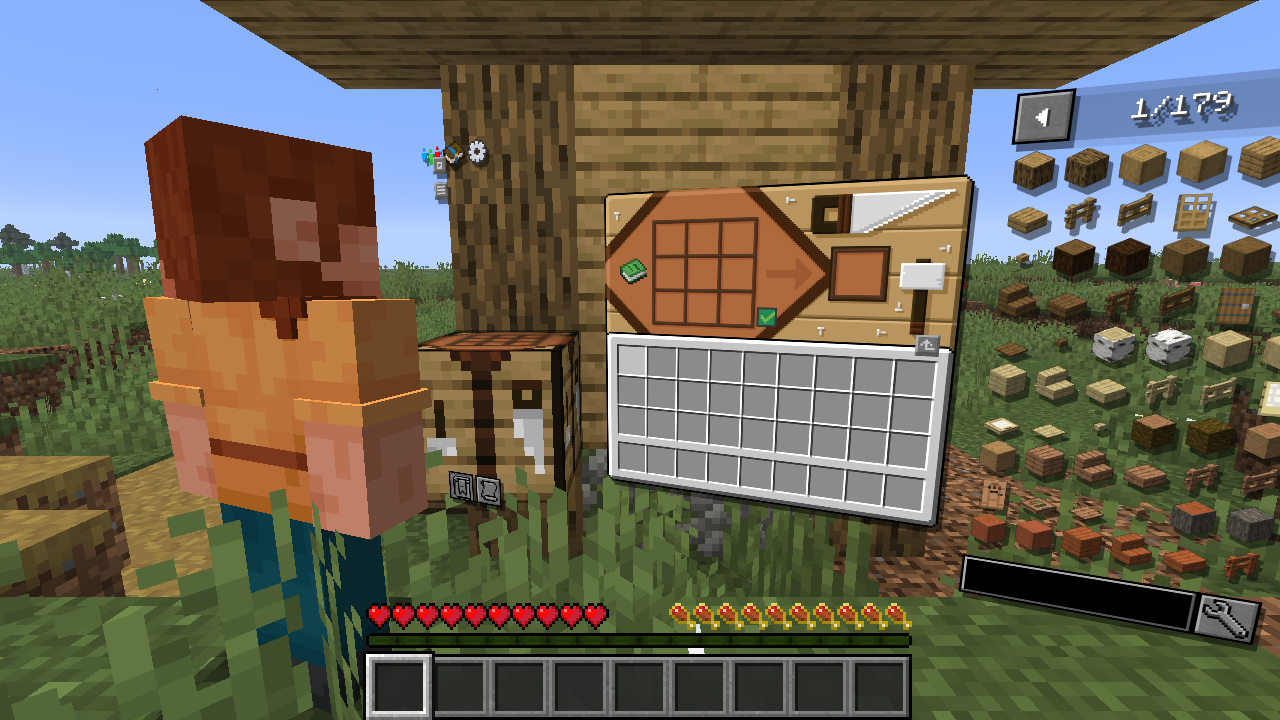
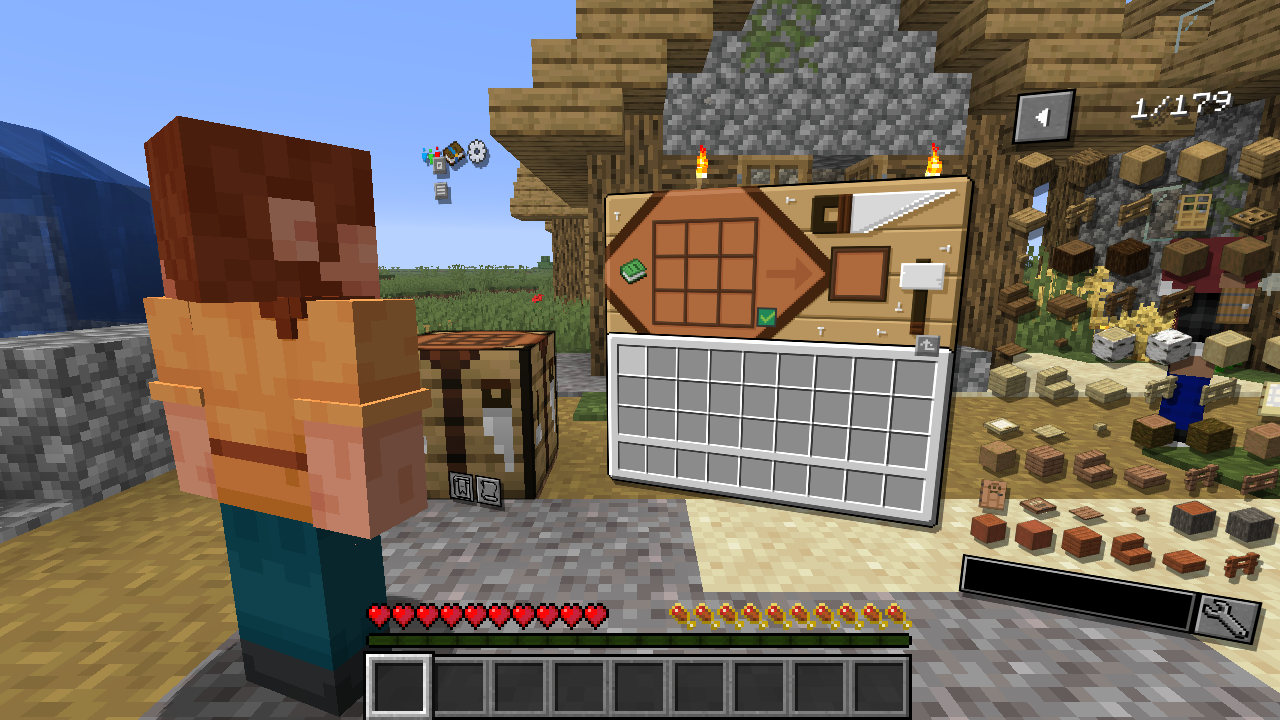
Oven screen in the pack's walnut/cream palette; robust weather GameTests; 1.0.0 release-pass evidence
- OvenScreen: walnut-framed cream enamel appliance area, vanilla inventory below (verified in showcase).
- Blizzard GameTest: check build-up after the 0.2-intensity threshold, hay-bale control row (dry farmland
  reverts to dirt), vanilla snow accumulation off during the test; fridge test headroom. 10/10 in 10 runs.
- weather-design: build-up tag vs vanilla single-layer snowfall stated precisely.
- Full pipeline on 1.0.0: server boot + client normal/blizzard/showcase/title PASS.

Claude-Session: https://claude.ai/code/session_017tD9w4wZGWMRQRRh4vbG5X

diff --git a/custom-mods/homestead-core/src/client/java/dev/jules/homestead/client/screen/OvenScreen.java b/custom-mods/homestead-core/src/client/java/dev/jules/homestead/client/screen/OvenScreen.java
@@ -7,12 +7,30 @@ import net.minecraft.network.chat.Component;
 import net.minecraft.world.entity.player.Inventory;
 import net.minecraft.world.inventory.Slot;
 
-/** Oven GUI drawn with plain fills (no texture asset needed): slots, per-slot progress bars and an energy gauge. */
+/**
+ * Oven GUI drawn with plain fills (no texture asset needed). The appliance area uses the pack's walnut + cream palette
+ * (matching the quest book, Jade theme and Recolourful Containers); the player inventory below keeps the vanilla look.
+ */
 public class OvenScreen extends AbstractContainerScreen<OvenMenu> {
 	private static final int PANEL = 0xFFC6C6C6;
+	private static final int BEVEL_LIGHT = 0xFFFFFFFF;
+	private static final int BEVEL_DARK = 0xFF555555;
 	private static final int DARK = 0xFF373737;
 	private static final int LIGHT = 0xFFFFFFFF;
 	private static final int SLOT = 0xFF8B8B8B;
+	// appliance area
+	private static final int WALNUT = 0xFF5B3A1E;
+	private static final int WALNUT_LIGHT = 0xFF8A5E36;
+	private static final int ENAMEL = 0xFFF1E7D0;
+	private static final int ENAMEL_SLOT = 0xFFC9B99A;
+	private static final int ENAMEL_SHADOW = 0xFF6E5B43;
+	private static final int ENAMEL_LIGHT = 0xFFFFF8E8;
+	private static final int TRACK = 0xFF4A3524;
+	private static final int HEAT = 0xFFE08A2E;
+	private static final int HEAT_GLOW = 0xFFF2B35E;
+	private static final int CHARGE = 0xFFD9C230;
+	private static final int AREA_TOP = 14;
+	private static final int AREA_BOTTOM = 72;
 
 	public OvenScreen(OvenMenu menu, Inventory inventory, Component title) {
 		super(menu, inventory, title, 176, 166);
@@ -23,38 +41,57 @@ public class OvenScreen extends AbstractContainerScreen<OvenMenu> {
 		super.extractBackground(g, mouseX, mouseY, a);
 		int x = leftPos;
 		int y = topPos;
+		// vanilla-style panel with a bevel
 		g.fill(x, y, x + imageWidth, y + imageHeight, PANEL);
 		g.outline(x, y, imageWidth, imageHeight, DARK);
+		g.fill(x + 1, y + 1, x + imageWidth - 2, y + 2, BEVEL_LIGHT);
+		g.fill(x + 1, y + 1, x + 2, y + imageHeight - 2, BEVEL_LIGHT);
+		g.fill(x + 2, y + imageHeight - 2, x + imageWidth - 1, y + imageHeight - 1, BEVEL_DARK);
+		g.fill(x + imageWidth - 2, y + 2, x + imageWidth - 1, y + imageHeight - 1, BEVEL_DARK);
+		// appliance area: walnut frame around cream enamel
+		int ax0 = x + 7;
+		int ax1 = x + imageWidth - 7;
+		int ay0 = y + AREA_TOP;
+		int ay1 = y + AREA_BOTTOM;
+		g.fill(ax0, ay0, ax1, ay1, WALNUT);
+		g.fill(ax0 + 1, ay0 + 1, ax1 - 1, ay0 + 2, WALNUT_LIGHT);
+		g.fill(ax0 + 2, ay0 + 2, ax1 - 2, ay1 - 2, ENAMEL);
 		for (Slot s : menu.slots) {
 			int sx = x + s.x - 1;
 			int sy = y + s.y - 1;
-			g.fill(sx, sy, sx + 18, sy + 18, SLOT);
-			g.fill(sx, sy, sx + 17, sy + 1, DARK);
-			g.fill(sx, sy, sx + 1, sy + 17, DARK);
-			g.fill(sx + 1, sy + 17, sx + 18, sy + 18, LIGHT);
-			g.fill(sx + 17, sy + 1, sx + 18, sy + 18, LIGHT);
+			boolean appliance = s.y < AREA_BOTTOM;
+			g.fill(sx, sy, sx + 18, sy + 18, appliance ? ENAMEL_SLOT : SLOT);
+			g.fill(sx, sy, sx + 17, sy + 1, appliance ? ENAMEL_SHADOW : DARK);
+			g.fill(sx, sy, sx + 1, sy + 17, appliance ? ENAMEL_SHADOW : DARK);
+			g.fill(sx + 1, sy + 17, sx + 18, sy + 18, appliance ? ENAMEL_LIGHT : LIGHT);
+			g.fill(sx + 17, sy + 1, sx + 18, sy + 18, appliance ? ENAMEL_LIGHT : LIGHT);
 		}
+		// per-slot cooking progress: a glowing element under each input
 		for (int i = 0; i < 4; i++) {
 			int bx = x + 53 + i * 18;
 			int by = y + 40;
-			g.fill(bx, by, bx + 16, by + 6, DARK);
+			g.fill(bx, by, bx + 16, by + 6, TRACK);
 			int w = Math.round(16 * menu.progress(i));
-			g.fill(bx, by, bx + w, by + 6, 0xFFE08A2E);
+			if (w > 0) {
+				g.fill(bx, by, bx + w, by + 6, HEAT);
+				g.fill(bx, by, bx + w, by + 1, HEAT_GLOW);
+			}
 		}
-		int ex = x + 160;
+		// energy gauge
+		int ex = x + 158;
 		int ey = y + 18;
-		int eh = 52;
-		g.fill(ex, ey, ex + 8, ey + eh, DARK);
-		int filled = (int) Math.round(eh * (menu.energy() / (double) menu.capacity()));
-		g.fill(ex + 1, ey + eh - filled, ex + 7, ey + eh, 0xFFD9C230);
+		int eh = 50;
+		g.fill(ex, ey, ex + 8, ey + eh, TRACK);
+		int filled = (int) Math.round((eh - 2) * (menu.energy() / (double) menu.capacity()));
+		g.fill(ex + 1, ey + eh - 1 - filled, ex + 7, ey + eh - 1, CHARGE);
 	}
 
 	@Override
 	public void extractContents(GuiGraphicsExtractor g, int mouseX, int mouseY, float a) {
 		super.extractContents(g, mouseX, mouseY, a);
-		int ex = leftPos + 160;
+		int ex = leftPos + 158;
 		int ey = topPos + 18;
-		if (mouseX >= ex && mouseX < ex + 8 && mouseY >= ey && mouseY < ey + 52) {
+		if (mouseX >= ex && mouseX < ex + 8 && mouseY >= ey && mouseY < ey + 50) {
 			g.setTooltipForNextFrame(font, Component.translatable("homesteadcore.gui.energy", menu.energy(), menu.capacity()), mouseX, mouseY);
 		}
 	}

diff --git a/custom-mods/homestead-core/src/gametest/java/dev/jules/homestead/test/HomesteadGameTests.java b/custom-mods/homestead-core/src/gametest/java/dev/jules/homestead/test/HomesteadGameTests.java
@@ -37,6 +37,7 @@ import net.minecraft.world.item.ItemStack;
 import net.minecraft.world.item.Items;
 import net.minecraft.world.level.GameType;
 import net.minecraft.world.level.LightLayer;
+import net.minecraft.world.level.gamerules.GameRules;
 import net.minecraft.world.level.biome.Biome;
 import net.minecraft.world.level.block.Blocks;
 import net.minecraft.world.level.block.ChestBlock;
@@ -144,7 +145,7 @@ public class HomesteadGameTests {
 	 * Establishes (with real Spoiled loaded): a vanilla chest's food starts spoiling (control); a powered fridge's
 	 * food does not; an unpowered fridge stays cold for the retention window, then its food starts spoiling.
 	 */
-	@GameTest(maxTicks = 600)
+	@GameTest(maxTicks = 1200) // Spoiled starts spoiling a container on its own schedule; leave headroom
 	public void refrigeratorPreservesOnlyWhilePowered(GameTestHelper h) {
 		HomesteadConfig.get().appliances.refrigeratorColdRetentionTicks = 60;
 		floor(h, 6);
@@ -371,7 +372,7 @@ public class HomesteadGameTests {
 
 	/**
 	 * Establishes (own batch): snow build-up rules (open natural ground gains layers up to the cap; no snow under a
-	 * roof or on no_snow_accumulation blocks such as farmland), live blizzard accumulation around an exposed player,
+	 * roof or on no_snow_accumulation blocks such as farmland and hay), live blizzard accumulation around an exposed player,
 	 * blizzard slowdown = blizzardSlowdown × intensity, the caught_in_blizzard advancement, and safe_and_warm after
 	 * 60 s sheltered during the blizzard.
 	 */
@@ -382,6 +383,11 @@ public class HomesteadGameTests {
 		HomesteadConfig.Weather cfg = HomesteadConfig.get().weather;
 		int oldRadius = cfg.snowAccumulationRadius;
 		int oldAttempts = cfg.snowAccumulationAttemptsPerSecond;
+		// Vanilla snowfall also lays single snow layers (on full blocks such as hay). Switch it off for this test so every
+		// layer observed below comes from homestead-core's build-up.
+		var rules = level.getGameRules();
+		int oldVanillaSnow = rules.get(GameRules.MAX_SNOW_ACCUMULATION_HEIGHT);
+		rules.set(GameRules.MAX_SNOW_ACCUMULATION_HEIGHT, 0, server);
 		floor(h, 7);
 		String oldBiome = fillBiome(h, 7, "minecraft:snowy_plains");
 		h.assertValueEqual(Exposure.precipitationAt(level, h.absolutePos(new BlockPos(3, 1, 3))), Biome.Precipitation.SNOW, "precondition: it snows here");
@@ -403,9 +409,10 @@ public class HomesteadGameTests {
 		h.assertTrue(!WeatherManager.tryAddSnowLayer(level, h.absolutePos(new BlockPos(0, 1, 6)), cap), "no snow under a roof");
 		h.setBlock(open, Blocks.AIR);
 		h.setBlock(0, 3, 6, Blocks.AIR);
-		// Control row of farmland along z = 6 for the live accumulation check.
+		// Control row along z = 6 for the live accumulation check: hay bales (no_snow_accumulation). Not farmland: dry
+		// farmland turns back into dirt on random ticks, and snow then (correctly) settles on the dirt.
 		for (int x = 0; x < 7; x++) {
-			h.setBlock(x, 0, 6, Blocks.FARMLAND);
+			h.setBlock(x, 0, 6, Blocks.HAY_BLOCK);
 		}
 
 		// Live blizzard: keep accumulation inside the 7x7 test area and make it frequent enough to observe.
@@ -414,8 +421,10 @@ public class HomesteadGameTests {
 		ServerPlayer p = survivalPlayer(h, new Vec3(3.5, 1, 3.5));
 		long[] shelteredAt = {0};
 		WeatherManager.startNow(server, Front.Kind.BLIZZARD, 3000, 3);
+		// Snow only builds up above intensity 0.2 (reached ~90 ticks into the 450-tick ramp), in passes every 20 ticks:
+		// by tick 200 several passes have run at ~0.3-0.45 intensity, so the area check below is not timing-sensitive.
 		h.startSequence()
-				.thenIdle(100)
+				.thenIdle(200)
 				.thenExecute(() -> {
 					WeatherManager.PlayerWeather st = WeatherManager.playerState(p.getUUID());
 					h.assertTrue(st.blizzardExposure(), "player in the open counts as blizzard-exposed (" + st + ")");
@@ -431,7 +440,7 @@ public class HomesteadGameTests {
 								snowy++;
 							}
 						}
-						h.assertTrue(!h.getBlockState(new BlockPos(x, 1, 6)).is(Blocks.SNOW), "no snow on the farmland row at x=" + x);
+						h.assertTrue(!h.getBlockState(new BlockPos(x, 1, 6)).is(Blocks.SNOW), "no snow on the hay-bale row at x=" + x);
 					}
 					h.assertTrue(snowy > 0, "snow accumulated on open ground around the player (" + snowy + " columns)");
 					hut(h);
@@ -453,6 +462,7 @@ public class HomesteadGameTests {
 				.thenExecute(() -> {
 					cfg.snowAccumulationRadius = oldRadius;
 					cfg.snowAccumulationAttemptsPerSecond = oldAttempts;
+					rules.set(GameRules.MAX_SNOW_ACCUMULATION_HEIGHT, oldVanillaSnow, server);
 					server.getPlayerList().remove(p);
 					fillBiome(h, 7, oldBiome);
 				})

diff --git a/STATUS.md b/STATUS.md
@@ -1,4 +1,4 @@
-# Status (2026-11-05)
+# Status (2026-11-05, version 1.0.0)
 
 Legend: **R** researched · **I** implemented · **C** compiled · **T** runtime-tested in the cloud · **L** awaiting local verification on Jules' PC.
 "T" names exactly what the test showed; cloud tests use a headless server and a software-rendered client (Mesa llvmpipe under Xvfb, no sound, no player input).
@@ -30,7 +30,8 @@ Legend: **R** researched · **I** implemented · **C** compiled · **T** runtime
 | Refrigerator preserves only while powered (real Spoiled) | T | GameTest `refrigeratorPreservesOnlyWhilePowered` (chest control spoils; warm fridge spoils; powered fridge doesn't) |
 | Electric range: FD heat-source LIT gate, oven pause on outage, residual heat | T | GameTest `electricRangeOvenAndCooktop`; FD tag gating verified in FD source |
 | Space heater power + demand + light + warm radius | T | GameTest `spaceHeaterRunsOnPowerAndDemand` |
-| Weather advancements for quests (witness_front, caught_in_blizzard, safe_and_warm after 60 s sheltered) | T | the two weather-exposure GameTests (10/10 GameTests pass, repeated runs) |
+| Weather advancements for quests (witness_front, caught_in_blizzard, safe_and_warm after 60 s sheltered) | T | the two weather-exposure GameTests (10/10 GameTests pass in 10 consecutive runs, also under load) |
+| Electric Oven screen (walnut/cream appliance area) | T (renders) | `showcase-range.png` |
 | Spoiled dedicated-server cache workaround | T | GameTest control chest spoils only with the fix |
 | Serene Seasons singleplayer recursion fix | T | Client smoke test crashed without it (StackOverflowError) and passes with it |
 
@@ -39,7 +40,7 @@ Legend: **R** researched · **I** implemented · **C** compiled · **T** runtime
 |---|---|---|
 | Configs (seasons, temperature, spoilage, MCA, homestead) | T (load) / L (balance) | parsed by mods in the server boot; `check_content.py` |
 | Pack data module (seasonal crop tags, EP controller removal) | T | registry dump: EP weather/time controller recipes absent |
-| Quest book: 9 chapters, 104 quests, 85 auto-detected | T (load + references) / L (play-through) | FTB log "Loaded 1 chapter groups, 9 chapters, 104 quests" (server and integrated server); `check_content.py` 0 errors |
+| Quest book: 9 chapters, 104 quests, 85 auto-detected (incl. town-power energy task) | T (load + references) / L (play-through; filling the Task Screen with energy) | FTB log "Loaded 1 chapter groups, 9 chapters, 104 quests" (server and integrated server); `check_content.py` 0 errors |
 | Residents (MCA), market, requests | T (load) / L | |
 | Create (optional, Create Fly) | R · L | dependency-checked only; excluded from the cloud boots |
 
@@ -60,10 +61,18 @@ Legend: **R** researched · **I** implemented · **C** compiled · **T** runtime
 * Wilder Wild: removed (registry-load race with Terralith). See docs/compatibility.md.
 * CurseForge API and site are blocked by this environment's egress proxy (HTTP 403). CurseForge facts came from WebFetch and the CFWidget mirror (marked secondary).
 
-## Finish-up plan
-1. ~~Spatial GUI~~ — done: added (client-only mod, works alongside Recolourful Containers), verified in the showcase run.
-2. ~~Re-run showcase~~ — done: IPN slot icons gone; Camera Overhaul config applied.
-3. ~~GameTests for slowdown, snow build-up, weather advancements~~ — done (10 GameTests).
-4. Optional quest: town power via FTB's `tech_reborn_energy` task.
-5. Release pass: bump to 1.0.0, run the full pipeline (resolve → validate → build_local → quests → check_content → package → mrpack_install → server_test → client normal/blizzard/showcase/title), counts consistent across README/STATUS.
-6. Delivery: get the `.mrpack` to Jules (a GitHub release asset or a committed `dist/` file; ask first).
+## 1.0.0 release pass (2026-11-05)
+Pipeline run on the final build:
+1. `build_local`: GameTests 10/10.
+2. `resolve`: 158 files.
+3. `validate`: 137 mod jars, 0 errors.
+4. `build_quests`: 104 quests.
+5. `check_content`: 0 errors.
+6. `package`: `JulesHomestead-1.0.0.mrpack`, 156 downloads + 2 local, 6726 KiB.
+7. `server_test`: booted in 39 s; FTB loaded 104 quests.
+8. Client scenarios **normal / blizzard / showcase / title: all PASS**, 260 mods. After the oven-screen restyle, the showcase was re-run and passed again.
+
+## Next (after Jules' local test)
+1. Run `docs/test-checklist.md` on the real PC and feed back the results.
+2. Balance pass (energy, spoilage, cold) from play-testing.
+3. Appliance models and the turbine rotor (see known-limitations).

diff --git a/docs/weather-design.md b/docs/weather-design.md
@@ -17,7 +17,7 @@ No Fabric mod at any Minecraft version provides gameplay blizzards/storms (see `
 | Cold exposure | Exposed during a blizzard: extra Thermoo temperature loss per tick, scaled by intensity, through Thermoo's `environment` source so Frostiful resistances (fur armour, etc.) apply. | Integration |
 | Travel | Exposed during a front: movement-speed modifier (blizzard −25%×intensity, storm −10%×intensity), removed when sheltered. Horses/boats unaffected. | Simplified |
 | Visibility | Client: dense fog when exposed in a blizzard (`fogStrength` config), extra snow particles; Immersive Storms adds its own snowy/sandy fog under thunder. | Visual |
-| World changes | Default: **snow-layer accumulation** on exposed natural ground near players during blizzards (max 2 layers, never on farmland/crops/paths/player blocks list). Crop damage, block breaking, fire: **off by default** and not implemented beyond config stubs. | Conservative |
+| World changes | Default: **snow-layer accumulation** on exposed natural ground near players during blizzards (max 2 layers; homestead-core never adds layers on the `homesteadcore:no_snow_accumulation` list: farmland, crops, paths, rails, hay, carpets, beds, fences, walls, slabs, stairs, glass, trapdoors, campfires and cooktops. Vanilla snowfall still lays its usual single layer on full blocks such as hay; set the vanilla game rule `max_snow_accumulation_height` to 0 to stop that too). Crop damage, block breaking, fire: **off by default** and not implemented beyond config stubs. | Conservative |
 
 ## Protection
 * **Buildings**: any roofed space whose windward side is closed counts as shelter.
